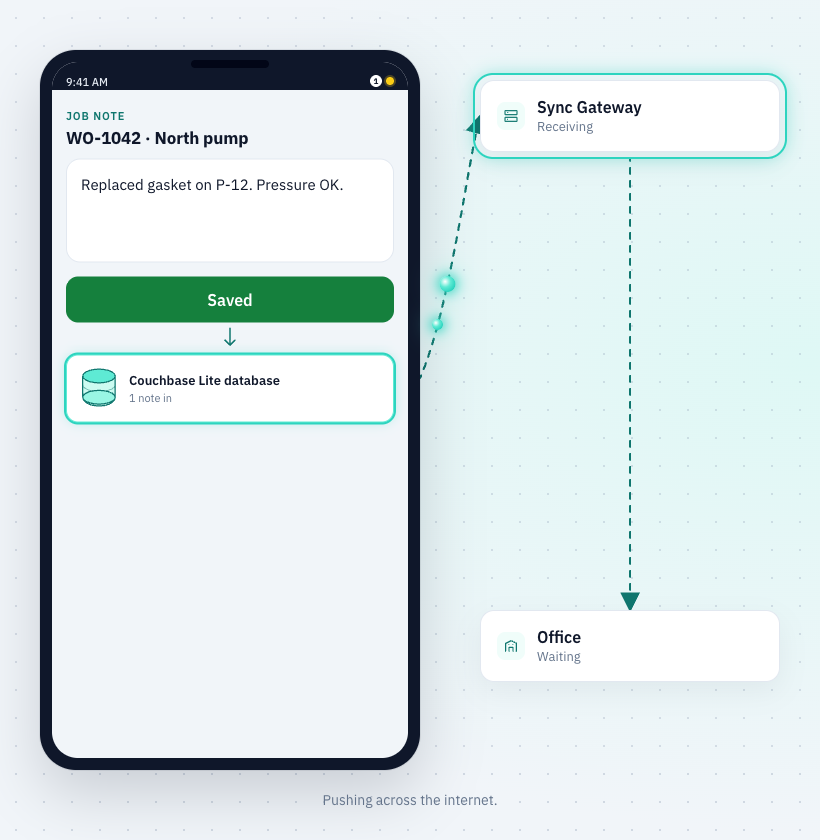
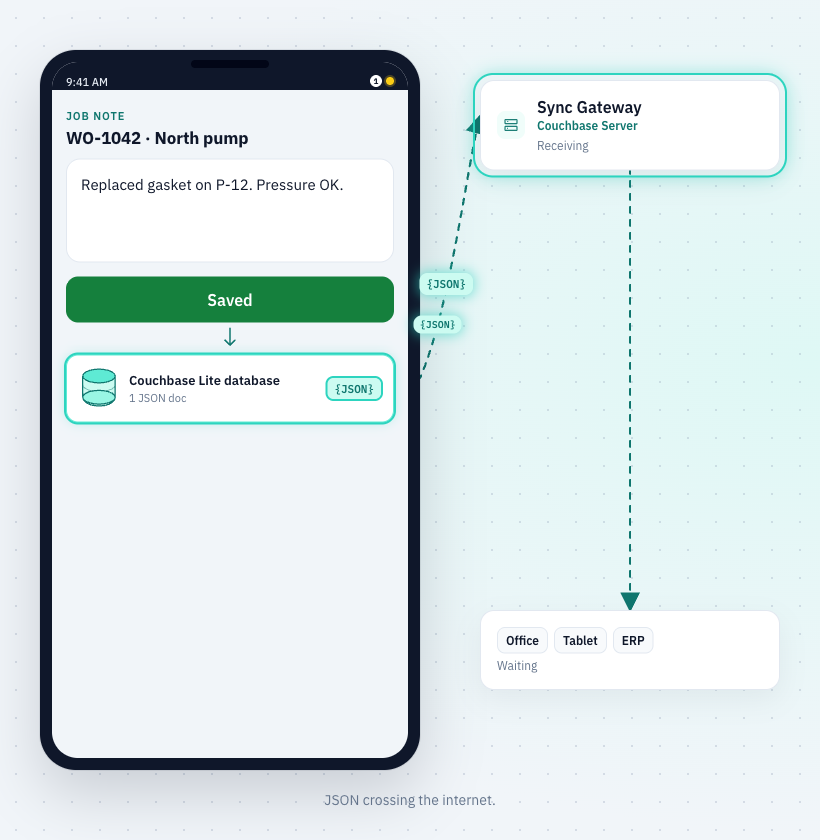
feat: JSON packets, SG+Server stack, Office/Tablet/ERP
Flying chips are {JSON}. Sync Gateway card names Couchbase Server.
The office card is three destinations: Office, Tablet, ERP.

diff --git a/public/hero-sync.html b/public/hero-sync.html
@@ -7,7 +7,7 @@
 <!-- 1920×1080, 13.2s silent loop. ?embed=1 crop-fits a parent iframe. ?t=6.9 freeze. ?noscale=1 record. -->
 <link rel="preconnect" href="https://fonts.googleapis.com"/>
 <link rel="preconnect" href="https://fonts.gstatic.com" crossorigin/>
-<link href="https://fonts.googleapis.com/css2?family=IBM+Plex+Sans:wght@400;500;600;700&display=swap" rel="stylesheet"/>
+<link href="https://fonts.googleapis.com/css2?family=IBM+Plex+Mono:wght@500;600&family=IBM+Plex+Sans:wght@400;500;600;700&display=swap" rel="stylesheet"/>
 <style>
   :root {
     --wash: #f1f5f9;
@@ -179,21 +179,24 @@
   .pkt-in {
     position: absolute;
     left: 50%;
-    top: 2px;
-    width: 10px;
-    height: 10px;
-    margin-left: -5px;
-    border-radius: 50%;
-    background: radial-gradient(circle at 35% 35%, #fff, var(--pkt2) 38%, var(--pkt) 72%);
-    box-shadow: 0 0 8px 2px rgba(45, 212, 191, 0.7);
+    top: 0;
+    transform: translateX(-50%);
+    height: 16px;
+    padding: 0 5px;
+    border-radius: 6px;
+    background: var(--teal-soft);
+    color: var(--teal);
+    font: 600 9px/16px "IBM Plex Mono", ui-monospace, monospace;
+    box-shadow: 0 0 8px 2px rgba(45, 212, 191, 0.45);
     opacity: 0;
     pointer-events: none;
+    white-space: nowrap;
   }
   .pkt-in.is-fly { animation: pktIn 0.72s ease-in forwards; }
   @keyframes pktIn {
     0% { top: 0; opacity: 1; }
     75% { opacity: 1; }
-    100% { top: 22px; opacity: 0; }
+    100% { top: 16px; opacity: 0; }
   }
   .local-db {
     display: flex;
@@ -220,8 +223,35 @@
     border-color: #5eead4;
     box-shadow: 0 0 0 2px var(--pkt), 0 0 12px rgba(45, 212, 191, 0.35);
   }
+  .json-badge {
+    margin-left: auto;
+    flex-shrink: 0;
+    font: 600 11px/1 "IBM Plex Mono", ui-monospace, monospace;
+    color: var(--teal);
+    background: var(--teal-soft);
+    padding: 5px 7px;
+    border-radius: 6px;
+  }
+  .local-db.is-write .json-badge {
+    box-shadow: 0 0 0 2px var(--pkt);
+  }
   .card-title { font: 600 16px/1.2 "IBM Plex Sans", Inter, sans-serif; color: var(--ink); }
-  .card-status { font: 400 13px/1.3 "IBM Plex Sans", Inter, sans-serif; color: var(--muted); margin-top: 2px; }
+  .card-sub { font: 600 12px/1.3 "IBM Plex Sans", Inter, sans-serif; color: var(--teal); margin-top: 2px; }
+  .card-status { font: 400 12px/1.3 "IBM Plex Sans", Inter, sans-serif; color: var(--muted); margin-top: 4px; }
+  .dests { display: flex; flex-wrap: wrap; gap: 6px; }
+  .dest {
+    padding: 5px 8px;
+    border-radius: 8px;
+    background: #f8fafc;
+    border: 1px solid var(--line);
+    font: 600 12px/1.2 "IBM Plex Sans", Inter, sans-serif;
+    color: var(--ink);
+  }
+  .card-office.is-in .dest {
+    background: #f0fdf4;
+    border-color: #86efac;
+    color: var(--ok);
+  }
   .card-icon {
     flex: 0 0 28px; width: 28px; height: 28px; border-radius: 8px;
     background: #f0fdfa; display: grid; place-items: center;
@@ -235,13 +265,18 @@
 
   .packet {
     position: absolute; left: 0; top: 0; z-index: 4;
-    width: 16px; height: 16px; margin: -8px 0 0 -8px;
-    border-radius: 50%;
-    background: radial-gradient(circle at 35% 35%, #fff, var(--pkt2) 38%, var(--pkt) 72%);
-    box-shadow: 0 0 10px 3px rgba(45,212,191,0.7), 0 0 22px 6px rgba(94,234,212,0.35);
+    height: 22px;
+    padding: 0 7px;
+    margin: -11px 0 0 -28px;
+    border-radius: 8px;
+    background: var(--teal-soft);
+    color: var(--teal);
+    font: 600 11px/22px "IBM Plex Mono", ui-monospace, monospace;
+    box-shadow: 0 0 12px 2px rgba(45, 212, 191, 0.55);
     opacity: 0; pointer-events: none;
+    white-space: nowrap;
   }
-  .packet-sm { width: 11px; height: 11px; margin: -5.5px 0 0 -5.5px; }
+  .packet-sm { height: 18px; padding: 0 6px; margin: -9px 0 0 -24px; font-size: 10px; line-height: 18px; }
 
   .caption {
     position: absolute; left: 420px; width: 740px; top: 880px; z-index: 5;
@@ -289,7 +324,7 @@
         <span class="ripple" id="ripple"></span>
       </button>
       <div class="save-to-db" id="saveToDb" aria-hidden="true">
-        <span class="pkt-in" id="pktLocal"></span>
+        <span class="pkt-in" id="pktLocal">{JSON}</span>
         <svg viewBox="0 0 24 28" fill="none" stroke="currentColor" stroke-width="2" stroke-linecap="round" stroke-linejoin="round">
           <path d="M12 2 v18"/>
           <path d="M6 16 l6 6 6-6"/>
@@ -307,6 +342,7 @@
           <strong>Couchbase Lite database</strong>
           <span id="dbStatus">On this phone</span>
         </div>
+        <code class="json-badge">{JSON}</code>
       </div>
       <div class="keyboard" id="keyboard" aria-hidden="true">
         <div class="kb-row"><i></i><i></i><i></i><i></i><i></i><i></i><i></i><i></i><i></i><i></i></div>
@@ -336,28 +372,26 @@
     </div>
     <div class="card-copy">
       <div class="card-title">Sync Gateway</div>
+      <div class="card-sub">Couchbase Server</div>
       <div class="card-status" id="sgStatus">On the internet</div>
     </div>
   </div>
 
   <div class="card card-office" id="cardOffice">
     <div class="card-ring" data-ring="green"></div>
-    <div class="card-icon" aria-hidden="true">
-      <svg width="16" height="16" viewBox="0 0 24 24" fill="none" stroke="#0f766e" stroke-width="1.8" stroke-linecap="round" stroke-linejoin="round">
-        <path d="M4 20V8l8-4 8 4v12"/>
-        <path d="M9 20v-6h6v6"/>
-        <path d="M9 10h.01M15 10h.01"/>
-      </svg>
-    </div>
     <div class="card-copy">
-      <div class="card-title">Office</div>
-      <div class="card-status" id="officeStatus">Couchbase Server</div>
+      <div class="dests">
+        <span class="dest">Office</span>
+        <span class="dest">Tablet</span>
+        <span class="dest">ERP</span>
+      </div>
+      <div class="card-status" id="officeStatus">Ready</div>
     </div>
   </div>
 
-  <div class="packet" id="pkt1"></div>
-  <div class="packet packet-sm" id="pkt2"></div>
-  <div class="packet" id="pkt3"></div>
+  <div class="packet" id="pkt1">{JSON}</div>
+  <div class="packet packet-sm" id="pkt2">{JSON}</div>
+  <div class="packet" id="pkt3">{JSON}</div>
   <p class="caption" id="caption">A note starts empty on the phone.</p>
 </div>
 </div>
@@ -375,9 +409,9 @@ const CAPTION = {
   typing: "Typing the job note.",
   aim: "Reach for Save.",
   tap: "Saved on the device.",
-  local: "Written to the Couchbase Lite database on the phone.",
-  push: "Pushing across the internet.",
-  synced: "On the phone, then across the internet.",
+  local: "Stored as JSON in the Couchbase Lite database.",
+  push: "JSON crossing the internet.",
+  synced: "Same JSON at Office, Tablet, and ERP.",
 };
 
 function typedCountAt(t) {
@@ -451,14 +485,15 @@ const Scene = {
     document.querySelector("#cardSg .card-ring").classList.toggle("on", state === "receiving");
   },
   setOffice(state){
-    const map = { idle:"Couchbase Server", waiting:"Waiting", note:"1 note in" };
+    const map = { idle:"Ready", waiting:"Waiting", note:"Got it" };
     document.getElementById("officeStatus").textContent = map[state];
+    document.getElementById("cardOffice").classList.toggle("is-in", state === "note");
     document.querySelector("#cardOffice .card-ring").classList.toggle("on", state === "note");
   },
   setDb(state){
     const node = document.getElementById("localDb");
     node.classList.toggle("is-write", state === "write");
-    document.getElementById("dbStatus").textContent = state === "write" ? "1 note in" : "On this phone";
+    document.getElementById("dbStatus").textContent = state === "write" ? "1 JSON doc" : "On this phone";
   },
   setPath(s){
     document.getElementById("saveToDb").classList.toggle("is-live", s.pathIn);
